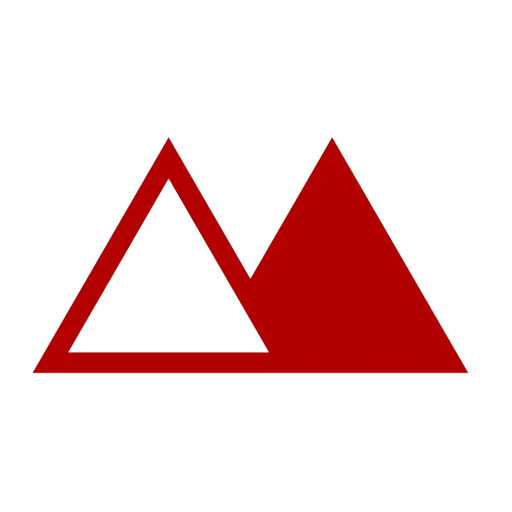
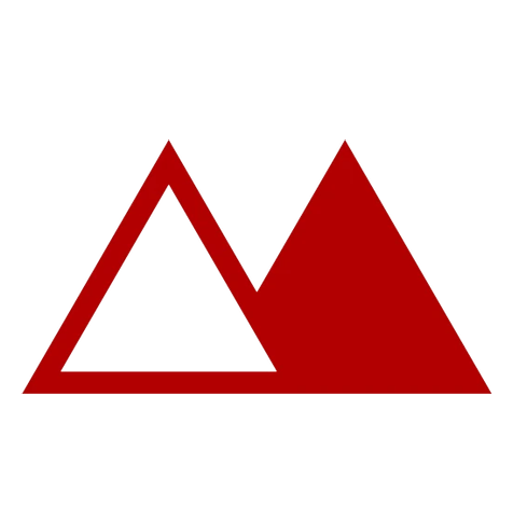
Arreglos de uso: icono de pestana, Todo en siempre visible, filtros con barra, carrito sin ensanchar, cuenta sin repetir login

diff --git a/app/iniciar-sesion/page.tsx b/app/iniciar-sesion/page.tsx
@@ -2,6 +2,7 @@ import type { Metadata } from "next";
 import Link from "next/link";
 import { ChevronLeft } from "lucide-react";
 import FormularioInicioSesion from "@/components/cuenta/FormularioInicioSesion";
+import SalirSiHaySesion from "@/components/cuenta/SalirSiHaySesion";
 import IconoCorazon from "@/components/icons/pico/IconoCorazon";
 import IconoMensaje from "@/components/icons/pico/IconoMensaje";
 import IconoTienda from "@/components/icons/pico/IconoTienda";
@@ -25,6 +26,8 @@ const beneficios = [
 export default function PaginaIniciarSesion() {
   return (
     <div className="grid min-h-dvh bg-pico-blanco lg:grid-cols-[minmax(0,1fr)_minmax(0,1.15fr)]">
+      {/* Con la sesión ya abierta, esta página no se muestra: va a Mi cuenta. */}
+      <SalirSiHaySesion />
       {/* Panel de marca (solo desde 1024px). */}
       <aside className="relative hidden overflow-hidden bg-gradient-to-br from-pico-azul via-pico-azul to-pico-azul-oscuro p-10 text-pico-blanco lg:flex lg:flex-col xl:p-14">
         <Link href="/" className="inline-flex items-center gap-3 self-start rounded-boton focus-visible:outline-2 focus-visible:outline-offset-4 focus-visible:outline-pico-blanco">
@@ -71,18 +74,19 @@ export default function PaginaIniciarSesion() {
           Volver a la tienda
         </Link>
 
-        {/* my-auto: el formulario queda centrado en la pantalla, con aire arriba en pantallas bajas. */}
-        <div className="mx-auto my-auto w-full max-w-lg pt-8 text-center motion-safe:animate-aparecer">
-          <Montanas className="mx-auto h-16 w-auto fill-pico-rojo motion-safe:animate-caer md:h-20 lg:hidden" />
-          <h1 className="mt-7 text-4xl font-bold tracking-tight text-pico-azul md:text-5xl lg:mt-0">Bienvenido</h1>
-          <p className="mt-4 text-base text-gris-texto">
+        {/* my-auto: el formulario queda centrado en la pantalla. Espacios más cortos en el teléfono: así cabe entero en
+            una pantalla de teléfono pequeño y la página no se desplaza (pedido de persona B). */}
+        <div className="mx-auto my-auto w-full max-w-lg pt-4 text-center motion-safe:animate-aparecer md:pt-8">
+          <Montanas className="mx-auto h-12 w-auto fill-pico-rojo motion-safe:animate-caer md:h-20 lg:hidden [@media(max-height:680px)]:hidden" />
+          <h1 className="mt-4 text-4xl font-bold tracking-tight text-pico-azul md:mt-7 md:text-5xl lg:mt-0 [@media(max-height:680px)]:mt-0">Bienvenido</h1>
+          <p className="mt-2 text-base text-gris-texto md:mt-4">
             ¿No tienes cuenta?{" "}
             <Link href="/crear-cuenta" className="font-semibold text-pico-rojo underline underline-offset-4 hover:text-pico-rojo-oscuro">
               Crear cuenta
             </Link>
           </p>
 
-          <div className="mt-10 text-left">
+          <div className="mt-6 text-left md:mt-10">
             <FormularioInicioSesion />
           </div>
         </div>

diff --git a/components/categoria/FiltrosCategoria.tsx b/components/categoria/FiltrosCategoria.tsx
@@ -62,7 +62,9 @@ function GrupoFiltro({ titulo, opciones, cabecera }: { titulo: string; opciones:
     <fieldset>
       <legend className="mb-2 font-titulo text-xs font-bold tracking-[0.18em] text-logo-marino uppercase">{titulo}</legend>
       {cabecera}
-      <ul className="space-y-1">
+      {/* Lista larga: se desplaza por dentro (rueda del mouse o deslizando el dedo) con su propia barra, así no hay
+          que bajar hasta el fondo de la página para elegir otra (pedido de persona B). */}
+      <ul className="lista-filtros max-h-[min(24rem,50dvh)] space-y-1 overflow-y-auto overscroll-contain pr-1">
         {opciones.map((opcion) => (
           <Fila key={opcion.href} opcion={opcion} />
         ))}
@@ -131,12 +133,15 @@ export default function FiltrosCategoria({ slug, estado, nombreCategoria, navega
 
   let opcionesSub: Opcion[] = [];
   if (navegacion) {
+    // En el último nivel (la actual marcada entre sus hermanas) el "Todo en …" es el de su nivel de arriba: así nunca
+    // desaparece al elegir una subcategoría y se vuelve a todo el grupo con un toque (pedido de persona B).
+    const padre = navegacion.sonHermanas ? navegacion.ruta.at(-2) : actual;
     opcionesSub = [
-      // Arriba de las hijas, el nivel actual completo (como "Todas" en el primer nivel). En el último nivel no hace falta:
-      // la actual va marcada entre sus hermanas.
-      ...(navegacion.sonHermanas
-        ? []
-        : [{ etiqueta: actual ? `Todo en ${actual.nombre}` : "Todas", href: aNivel(actual?.codigo), activa: true }]),
+      {
+        etiqueta: `Todo en ${padre?.nombre ?? nombreCategoria}`,
+        href: aNivel(padre?.codigo),
+        activa: !navegacion.sonHermanas,
+      },
       ...navegacion.opciones.map((o) => ({
         etiqueta: o.nombre,
         href: aNivel(o.codigo),
@@ -146,7 +151,7 @@ export default function FiltrosCategoria({ slug, estado, nombreCategoria, navega
     ];
   } else if (subcategorias.length > 0) {
     opcionesSub = [
-      { etiqueta: "Todas", href: hrefCategoria(slug, estado, { subcategoria: undefined }), activa: !estado.subcategoria },
+      { etiqueta: `Todo en ${nombreCategoria}`, href: hrefCategoria(slug, estado, { subcategoria: undefined }), activa: !estado.subcategoria },
       ...subcategorias.map((s) => ({
         etiqueta: s,
         href: hrefCategoria(slug, estado, { subcategoria: s }),

diff --git a/components/cuenta/FormularioInicioSesion.tsx b/components/cuenta/FormularioInicioSesion.tsx
@@ -23,7 +23,8 @@ export default function FormularioInicioSesion() {
     if (resultado.ok) {
       // La cookie ya viene puesta: se avisa al header (useSession) para que muestre la cuenta sin recargar.
       authCliente.$store.notify("$sessionSignal");
-      router.push("/");
+      router.replace("/"); // replace: el "atrás" no vuelve al formulario de entrar
+
     } else setMensaje(resultado.mensaje);
   };
 
@@ -44,9 +45,10 @@ export default function FormularioInicioSesion() {
   };
 
   return (
-    // Versión grande de los campos (solo aquí; crear cuenta usa el tamaño normal).
-    <div className="flex flex-col gap-7 [&_input]:h-14 [&_input]:pl-4 [&_input]:text-base [&_label]:text-[15px]">
-      <form onSubmit={enviar} noValidate className="flex flex-col gap-5">
+    // Versión grande de los campos (solo aquí; crear cuenta usa el tamaño normal). En pantallas bajas (teléfono con las
+    // barras del navegador) todo un poco más compacto, para que la página quepa sin desplazarse.
+    <div className="flex flex-col gap-5 [&_input]:h-12 [&_input]:pl-4 [&_input]:text-base [&_label]:text-[15px] [@media(min-height:760px)]:gap-7 [@media(min-height:760px)]:[&_input]:h-14">
+      <form onSubmit={enviar} noValidate className="flex flex-col gap-4 [@media(min-height:760px)]:gap-5">
         <Campo
           id="correo"
           etiqueta="Correo electrónico"
@@ -71,13 +73,14 @@ export default function FormularioInicioSesion() {
 
         {mensaje && <Aviso tipo="info">{mensaje}</Aviso>}
 
-        <Boton type="submit" anchoCompleto disabled={enviando} className="mt-2 h-14! text-lg!">
+        <Boton type="submit" anchoCompleto disabled={enviando} className="mt-1 h-12! text-lg! [@media(min-height:760px)]:mt-2 [@media(min-height:760px)]:h-14!">
           {enviando ? "Entrando…" : "Iniciar sesión"}
         </Boton>
       </form>
 
       <Separador texto="o continúa con" />
-      <BotonesSociales disabled={enviando} />
+      {/* Al volver de Google, al inicio como con la contraseña (sin esto volvía aquí y se veía este formulario). */}
+      <BotonesSociales disabled={enviando} volverA="/" />
     </div>
   );
 }

diff --git a/components/cuenta/SalirSiHaySesion.tsx b/components/cuenta/SalirSiHaySesion.tsx
@@ -1,0 +1,25 @@
+"use client";
+
+import { useEffect, useRef } from "react";
+import { useRouter } from "next/navigation";
+import { authCliente } from "@/lib/authCliente";
+
+/**
+ * En /iniciar-sesion y /crear-cuenta: si se LLEGA con la sesión ya abierta, no tiene sentido mostrar el formulario y se
+ * va a Mi cuenta (pedido de persona B). Se decide una sola vez, con la primera respuesta de la sesión: quien entra o se
+ * registra AQUÍ sigue a su destino normal (inicio o la bienvenida), no a Mi cuenta. Va en el navegador y no en el
+ * servidor para no competir con esa redirección después de entrar.
+ */
+export default function SalirSiHaySesion({ a = "/mi-cuenta" }: { a?: string }) {
+  const { data: sesion, isPending } = authCliente.useSession();
+  const router = useRouter();
+  const decidido = useRef(false);
+
+  useEffect(() => {
+    if (isPending || decidido.current) return;
+    decidido.current = true;
+    if (sesion?.user) router.replace(a);
+  }, [isPending, sesion, a, router]);
+
+  return null;
+}

diff --git a/app/globals.css b/app/globals.css
@@ -257,6 +257,22 @@ html {
   scrollbar-width: thin;
   scrollbar-color: color-mix(in srgb, var(--color-pico-azul) 35%, transparent) transparent;
   -webkit-tap-highlight-color: transparent;
+  /* Espacio de la barra siempre reservado: al abrir el carrito (o cualquier panel que bloquea el fondo) la barra se
+     esconde y, sin esto, toda la página se ensanchaba de golpe (pedido de persona B). */
+  scrollbar-gutter: stable;
+}
+
+/* Listas de filtros de la categoría (components/categoria/FiltrosCategoria.tsx): barra de desplazamiento visible. */
+.lista-filtros {
+  scrollbar-width: thin;
+  scrollbar-color: color-mix(in srgb, var(--color-logo-marino) 45%, transparent) var(--color-gris-fondo);
+}
+.lista-filtros::-webkit-scrollbar {
+  width: 6px;
+}
+.lista-filtros::-webkit-scrollbar-thumb {
+  border-radius: 9999px;
+  background: color-mix(in srgb, var(--color-logo-marino) 45%, transparent);
 }
 
 /* Los saltos a un ancla (#…) no quedan tapados por el header fijo: el margen va en el destino (:target), NO como

diff --git a/app/crear-cuenta/page.tsx b/app/crear-cuenta/page.tsx
@@ -2,6 +2,7 @@ import type { Metadata } from "next";
 import Link from "next/link";
 import { ChevronLeft } from "lucide-react";
 import FormularioCrearCuenta from "@/components/cuenta/FormularioCrearCuenta";
+import SalirSiHaySesion from "@/components/cuenta/SalirSiHaySesion";
 import { Montanas } from "@/components/layout/Logo";
 import Contenedor from "@/components/ui/Contenedor";
 
@@ -14,6 +15,8 @@ export const metadata: Metadata = { title: "Crear cuenta", robots: { index: fals
 export default function PaginaCrearCuenta() {
   return (
     <div className="flex min-h-dvh flex-col bg-pico-blanco">
+      {/* Con la sesión ya abierta, esta página no se muestra: va a Mi cuenta. */}
+      <SalirSiHaySesion />
       <Contenedor className="flex w-full flex-1 flex-col pt-5 pb-[calc(2.5rem+env(safe-area-inset-bottom))] md:pb-16">
         <Link
           href="/iniciar-sesion"

diff --git a/components/cuenta/FormularioCrearCuenta.tsx b/components/cuenta/FormularioCrearCuenta.tsx
@@ -92,7 +92,7 @@ export default function FormularioCrearCuenta() {
         setClaves({ contrasena: "", confirmacion: "" });
         return setMensaje(resultado.aviso);
       }
-      router.push(rutaBienvenida(cuenta.fiscales.nombre));
+      router.replace(rutaBienvenida(cuenta.fiscales.nombre)); // replace: el "atrás" no vuelve al formulario
     });
   };
 

diff --git a/CLAUDE.md b/CLAUDE.md
@@ -162,6 +162,12 @@ Resumen para persona B y cualquier sesión nueva. Detalle: `lib/auth.ts`, `lib/c
 
 ## Registro de cambios
 Lo más reciente arriba. Formato: fecha · rama · quién · qué cambió y qué debe saber el compañero.
+- 2026-11-09 · `main` · persona B · **5 arreglos de uso** (pedidos de persona B; tocan archivos de persona A en cuenta):
+  (1) **Ícono de la pestaña**: `app/icon.png` y `app/apple-icon.png` rehechos con fondo blanco (cuadro redondeado en el de la pestaña) y el logo casi de borde a borde; antes era transparente y no se veía en la barra oscura.
+  (2) **"Todo en …" ya no desaparece** (`components/categoria/FiltrosCategoria.tsx`): en el último nivel del árbol sale arriba "Todo en [nivel de arriba]" (sin marcar) para volver al grupo; en el primer nivel dice "Todo en [categoría]" (antes "Todas").
+  (3) **Listas de filtros con su propia barra**: subcategorías y marcas se desplazan por dentro (`max-h-[min(24rem,50dvh)]`, clase `.lista-filtros` en `globals.css`), en PC y en el panel del teléfono.
+  (4) **El carrito ya no ensancha la página**: `scrollbar-gutter: stable` en `html` (`globals.css`); al bloquear el fondo la barra desaparecía y todo se corría. Vale para todos los paneles que hacen `body.style.overflow = "hidden"`.
+  (5) **Cuenta**: `components/cuenta/SalirSiHaySesion.tsx` en `/iniciar-sesion` y `/crear-cuenta`: si se LLEGA con sesión abierta, va a `/mi-cuenta` (se decide una vez, en el navegador, para no pisar la redirección de después de entrar/registrarse). Entrar y registrarse usan `router.replace` (el "atrás" no vuelve al formulario) y Google desde iniciar sesión vuelve a `/` (`volverA="/"`). Iniciar sesión más compacta en el teléfono y en pantallas bajas (`[@media(max-height:…)]`): ya no se desplaza (medido hasta 360×640). Crear cuenta sí se desplaza: el formulario es largo.
 - 2026-11-05 · `main` · persona A · **Fotos de toda Cerrajería**: 123 fotos del dueño en `public/productos/cerrajeria/`, asignadas por nombre en `lib/fotosCerrajeria.ts` (379 de 458 productos; los demás quedan sin foto a propósito). Igual que Tornillería: un producto nuevo del mismo tipo sale con foto solo y solo aplica a `categoriaSlug` cerrajeria. Las fotos con una marca a la vista (Lobster, Visalock, RUN, Cisa…) van solo en esa marca. Los 13 Aerocloset llevan el logo de la marca, no una foto del producto. Toca `lib/agrupaciones.ts` de persona B: una línea más en la búsqueda de foto, después de Tornillería; FOTOS_SAINT y fotoPorNombre siguen mandando.
 - 2026-11-04 · `main` · persona B · **Fotos Quimicolor fondo y Quimidal laca acrílica** (en `fotoPorNombre`, con prueba): todo "QUIMICOLOR … FONDO" con la lata de fondo anticorrosivo y toda "QUIMIDAL LACA ACRILICA" con la lata Auto-Cryl, 1/4 (600 px) y galón (760 px). Después, Quimidal masilla roja p/retoques (`quimidal/masilla-roja.webp`). Lo demás de esas marcas, sin foto.
 - 2026-11-04 · `main` · persona B · **Foto spray Q7** (en `fotoPorNombre`, con prueba): toda pintura Q7 (400 ml, alta temp., cromo/dorado) lleva `public/productos/q7/spray.webp` (se le quitaron la calcomanía amarilla de la tapa y la marca de agua "ferreterito"). La pega PVC Q7, sin foto.
